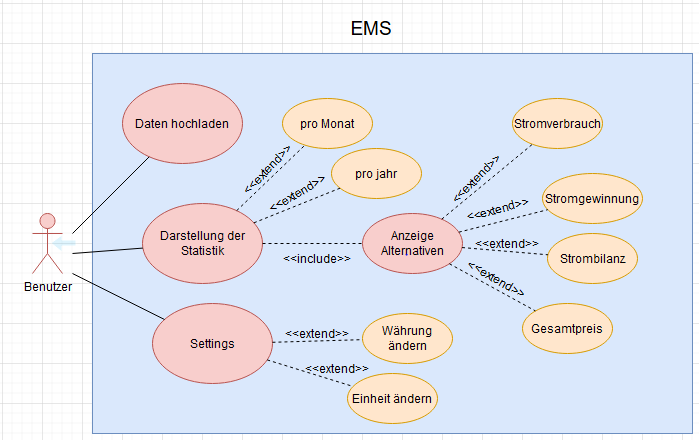
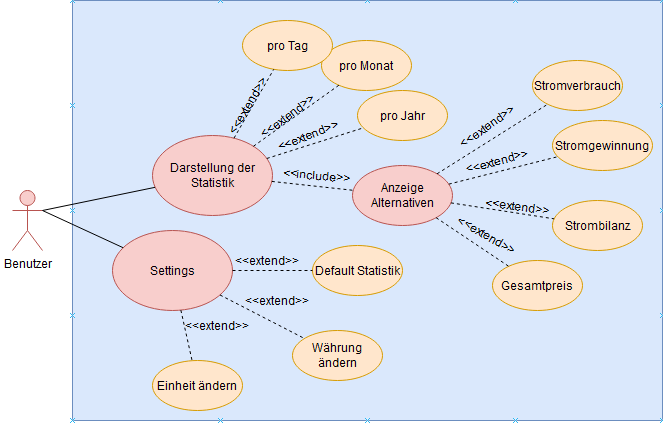
Use-Case-Diagramm verbessert

diff --git a/README.md b/README.md
@@ -45,11 +45,6 @@ z.B.: produzieren die wenigsten Wechselrichter Hersteller auch E-Auto Ladestatio
 
 ### 2.2.1 GUI-Design
 
-- GUI-Mockup der Start Seite
-
-<img src="./pics/GUI-MockupMainPage.PNG">
-
-
 ### 2.2. Use Case Statistik
 
 <img src="./pics/GUI-MockupStatistikPage.png">
